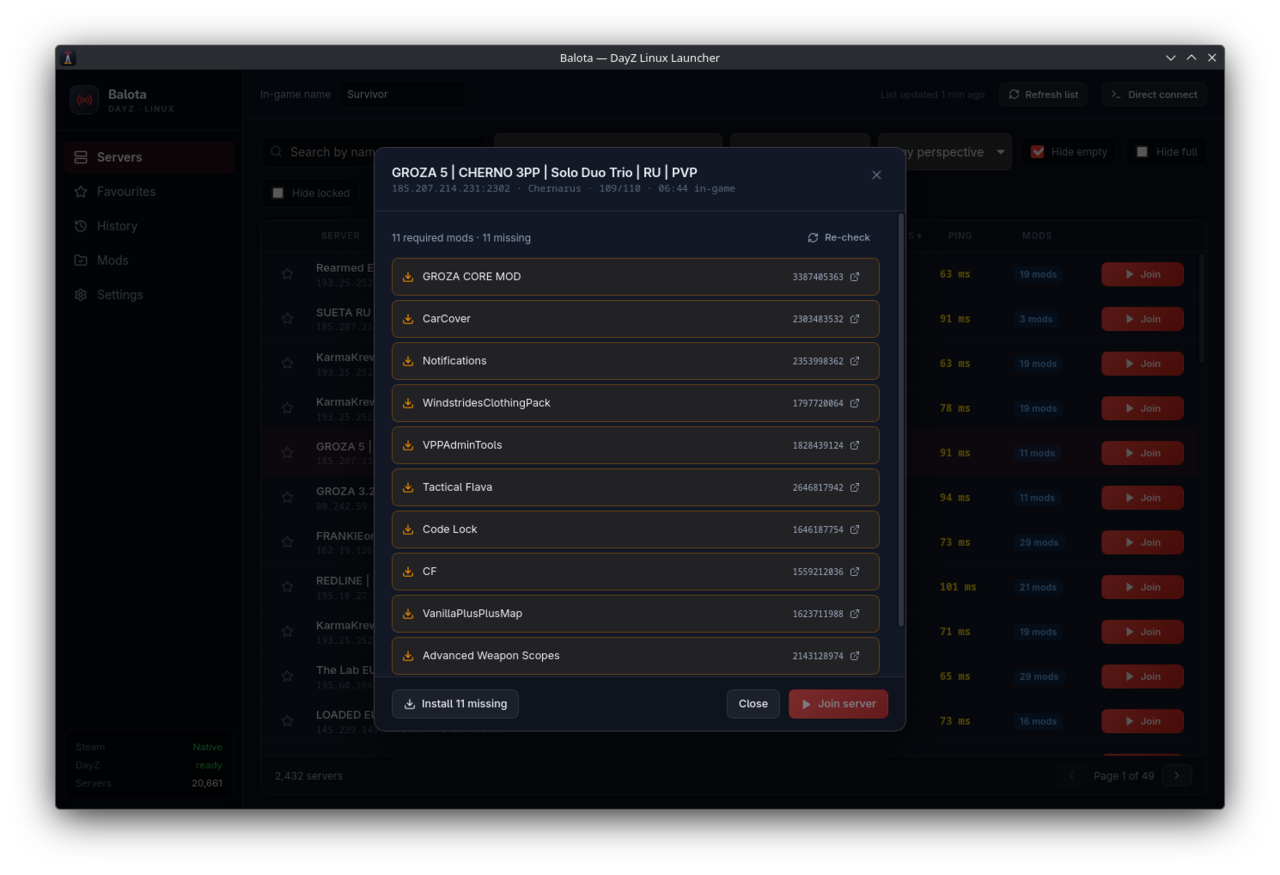
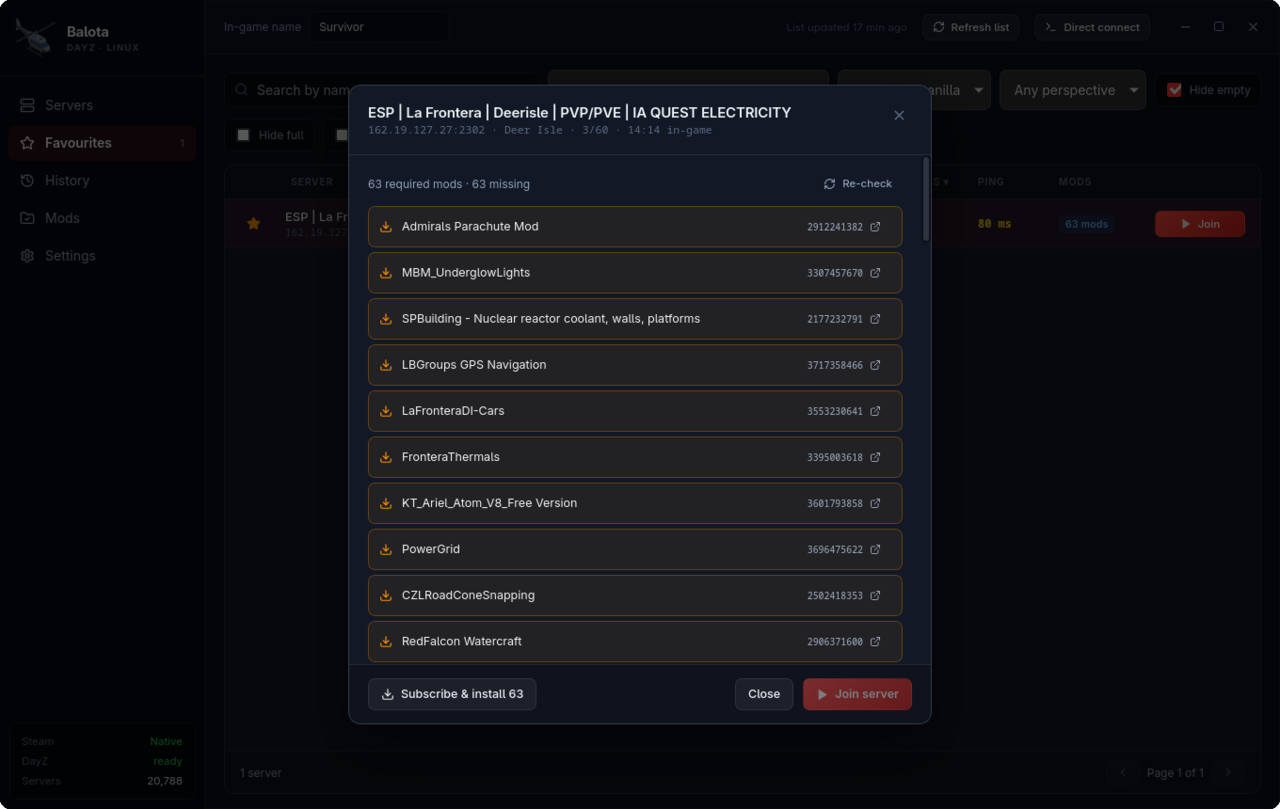
Replace the system title bar with the app's own header
The title bar showed a blurry copy of the logo the sidebar already
displays a few pixels below it, and that icon could not be removed on its
own: clearing it also cleared the taskbar's, which on Wayland falls back
to the window icon when the window cannot be matched to an installed
desktop entry.

So the decorations are gone and the existing header takes over. It costs
no vertical space — the window buttons sit next to Direct connect — and
the window now matches the dark UI edge to edge.

- the header is the drag region; interactive children keep their clicks,
  since the drag only fires on the region itself
- ResizeEdges: invisible grab strips on all four sides and corners,
  because without decorations the compositor stops offering resize
  handles and the window would be stuck at its starting size
- a transparent window and a clipped frame bring the rounded corners back,
  dropped again when maximised so the screen corners show no gaps
- no drop shadow: KWin only draws one for windows it decorates, and faking
  it means reserving a transparent margin on every side for a cosmetic
  effect
- screenshots refreshed, since both still showed the system title bar

diff --git a/src/index.css b/src/index.css
@@ -36,11 +36,24 @@
   box-sizing: border-box;
 }
 
+/* The window is transparent and undecorated so the frame below can round its
+   own corners. No drop shadow: a window cannot paint outside itself, and
+   reserving a transparent margin for one costs usable space. */
 body {
   margin: 0;
-  background: var(--bg);
+  background: transparent;
   overflow: hidden;
   user-select: none;
+}
+
+:root {
+  --frame-radius: 12px;
+}
+
+/* Maximised, rounded corners would leave the desktop showing through the
+   screen corners. */
+:root.maximized {
+  --frame-radius: 0px;
 }
 
 h1,
@@ -126,6 +139,17 @@ input[type="checkbox"] {
   display: flex;
   height: 100vh;
   width: 100vw;
+  background: var(--bg);
+  border-radius: var(--frame-radius);
+  /* Clips the sidebar and the table to the rounded corners. */
+  overflow: hidden;
+  /* An inner hairline, not a drop shadow: it keeps the rounded edge legible
+     against a dark wallpaper. */
+  box-shadow: inset 0 0 0 1px rgba(255, 255, 255, 0.07);
+}
+
+:root.maximized .app {
+  box-shadow: none;
 }
 
 .sidebar {
@@ -248,6 +272,42 @@ input[type="checkbox"] {
 
 .header .spacer {
   flex: 1;
+}
+
+/* ------------------------------------------------------- window controls -- */
+
+.window-controls {
+  display: flex;
+  align-items: center;
+  gap: 2px;
+  margin-left: 4px;
+  margin-right: -8px;
+}
+
+.window-button {
+  display: grid;
+  place-items: center;
+  width: 34px;
+  height: 30px;
+  border-radius: 6px;
+  color: var(--text-muted);
+  transition: background 0.12s, color 0.12s;
+}
+
+.window-button:hover {
+  background: rgba(255, 255, 255, 0.1);
+  color: var(--text);
+}
+
+.window-button.close:hover {
+  background: #d9291d;
+  color: #fff;
+}
+
+/* Grab strips for resizing, since there are no system decorations. */
+.resize-edge {
+  position: fixed;
+  z-index: 100;
 }
 
 .field {
@@ -564,7 +624,9 @@ input[type="checkbox"] {
 
 .overlay {
   position: fixed;
+  /* Stops inside the frame, so the dim layer keeps the rounded corners. */
   inset: 0;
+  border-radius: var(--frame-radius);
   z-index: 50;
   display: grid;
   place-items: center;

diff --git a/src/components/WindowControls.tsx b/src/components/WindowControls.tsx
@@ -1,0 +1,44 @@
+import { Minus, Square, Copy, X } from "lucide-react";
+import { getCurrentWindow } from "@tauri-apps/api/window";
+import { useMaximized } from "../useMaximized";
+
+/**
+ * Minimise / maximise / close for a window with no system decorations.
+ *
+ * The drag region itself lives on the header (`data-tauri-drag-region`);
+ * these buttons sit inside it and keep their own clicks, since the drag only
+ * fires when the press lands on the region rather than on a child.
+ */
+export default function WindowControls() {
+  const maximized = useMaximized();
+  const appWindow = getCurrentWindow();
+
+  return (
+    <div className="window-controls">
+      <button
+        className="window-button"
+        onClick={() => appWindow.minimize()}
+        title="Minimise"
+        aria-label="Minimise"
+      >
+        <Minus size={15} />
+      </button>
+      <button
+        className="window-button"
+        onClick={() => appWindow.toggleMaximize()}
+        title={maximized ? "Restore" : "Maximise"}
+        aria-label={maximized ? "Restore" : "Maximise"}
+      >
+        {maximized ? <Copy size={12} /> : <Square size={12} />}
+      </button>
+      <button
+        className="window-button close"
+        onClick={() => appWindow.close()}
+        title="Close"
+        aria-label="Close"
+      >
+        <X size={15} />
+      </button>
+    </div>
+  );
+}

diff --git a/src/components/ResizeEdges.tsx b/src/components/ResizeEdges.tsx
@@ -1,0 +1,39 @@
+import { getCurrentWindow } from "@tauri-apps/api/window";
+
+/**
+ * Invisible grab strips around the window.
+ *
+ * Without system decorations the compositor no longer provides resize
+ * handles, so the window would be stuck at its starting size. These strips
+ * hand the gesture back to it.
+ */
+const EDGES = [
+  { dir: "North", style: { top: 0, left: 6, right: 6, height: 5, cursor: "ns-resize" } },
+  { dir: "South", style: { bottom: 0, left: 6, right: 6, height: 5, cursor: "ns-resize" } },
+  { dir: "West", style: { left: 0, top: 6, bottom: 6, width: 5, cursor: "ew-resize" } },
+  { dir: "East", style: { right: 0, top: 6, bottom: 6, width: 5, cursor: "ew-resize" } },
+  { dir: "NorthWest", style: { top: 0, left: 0, width: 8, height: 8, cursor: "nwse-resize" } },
+  { dir: "NorthEast", style: { top: 0, right: 0, width: 8, height: 8, cursor: "nesw-resize" } },
+  { dir: "SouthWest", style: { bottom: 0, left: 0, width: 8, height: 8, cursor: "nesw-resize" } },
+  { dir: "SouthEast", style: { bottom: 0, right: 0, width: 8, height: 8, cursor: "nwse-resize" } },
+] as const;
+
+export default function ResizeEdges() {
+  return (
+    <>
+      {EDGES.map(({ dir, style }) => (
+        <div
+          key={dir}
+          className="resize-edge"
+          style={style}
+          onMouseDown={(e) => {
+            // Left button only: a right-click here should fall through.
+            if (e.button !== 0) return;
+            e.preventDefault();
+            void getCurrentWindow().startResizeDragging(dir);
+          }}
+        />
+      ))}
+    </>
+  );
+}

diff --git a/src/useMaximized.ts b/src/useMaximized.ts
@@ -1,0 +1,35 @@
+import { useEffect, useState } from "react";
+import { getCurrentWindow } from "@tauri-apps/api/window";
+
+/**
+ * Tracks whether the window is maximised.
+ *
+ * It matters for more than the button icon: a maximised window must drop its
+ * rounded corners and its shadow margin, or the screen edges show transparent
+ * gaps where the desktop shines through.
+ */
+export function useMaximized(): boolean {
+  const [maximized, setMaximized] = useState(false);
+
+  useEffect(() => {
+    const appWindow = getCurrentWindow();
+    let unlisten: (() => void) | undefined;
+
+    const sync = () =>
+      appWindow.isMaximized().then(setMaximized).catch(() => undefined);
+
+    void sync();
+    // The compositor can maximise the window too — edge snapping, a keyboard
+    // shortcut — so the state has to follow the window, not just our button.
+    appWindow
+      .onResized(sync)
+      .then((fn) => {
+        unlisten = fn;
+      })
+      .catch(() => undefined);
+
+    return () => unlisten?.();
+  }, []);
+
+  return maximized;
+}

diff --git a/src/App.tsx b/src/App.tsx
@@ -20,6 +20,9 @@ import ModsTab from "./components/ModsTab";
 import ServerModal from "./components/ServerModal";
 import ServerTable from "./components/ServerTable";
 import SettingsTab from "./components/SettingsTab";
+import WindowControls from "./components/WindowControls";
+import ResizeEdges from "./components/ResizeEdges";
+import { useMaximized } from "./useMaximized";
 import { formatNumber, timeAgo } from "./format";
 import * as api from "./api";
 import type {
@@ -70,7 +73,14 @@ export default function App() {
   const [sort, setSort] = useState<SortBy>("players");
   const [pageIndex, setPageIndex] = useState(0);
 
+  const maximized = useMaximized();
   const toastTimer = useRef<number>();
+
+  // The frame's corners and shadow are CSS, so the maximised state has to
+  // reach the stylesheet.
+  useEffect(() => {
+    document.documentElement.classList.toggle("maximized", maximized);
+  }, [maximized]);
 
   const notify = useCallback((message: string, kind: Toast["kind"] = "info") => {
     setToast({ message, kind });
@@ -288,6 +298,8 @@ export default function App() {
 
   return (
     <div className="app">
+      <ResizeEdges />
+
       <aside className="sidebar">
         <div className="brand">
           <img className="brand-mark" src={logo} alt="" width={44} height={44} />
@@ -334,7 +346,10 @@ export default function App() {
       </aside>
 
       <main className="main">
-        <header className="header">
+        {/* The header doubles as the title bar: dragging it moves the window.
+            Interactive children keep their own clicks, since the drag only
+            fires when the press lands on the region itself. */}
+        <header className="header" data-tauri-drag-region>
           <label className="field">
             In-game name
             <input
@@ -373,6 +388,8 @@ export default function App() {
             <Terminal size={13} />
             Direct connect
           </button>
+
+          <WindowControls />
         </header>
 
         <div className="content">